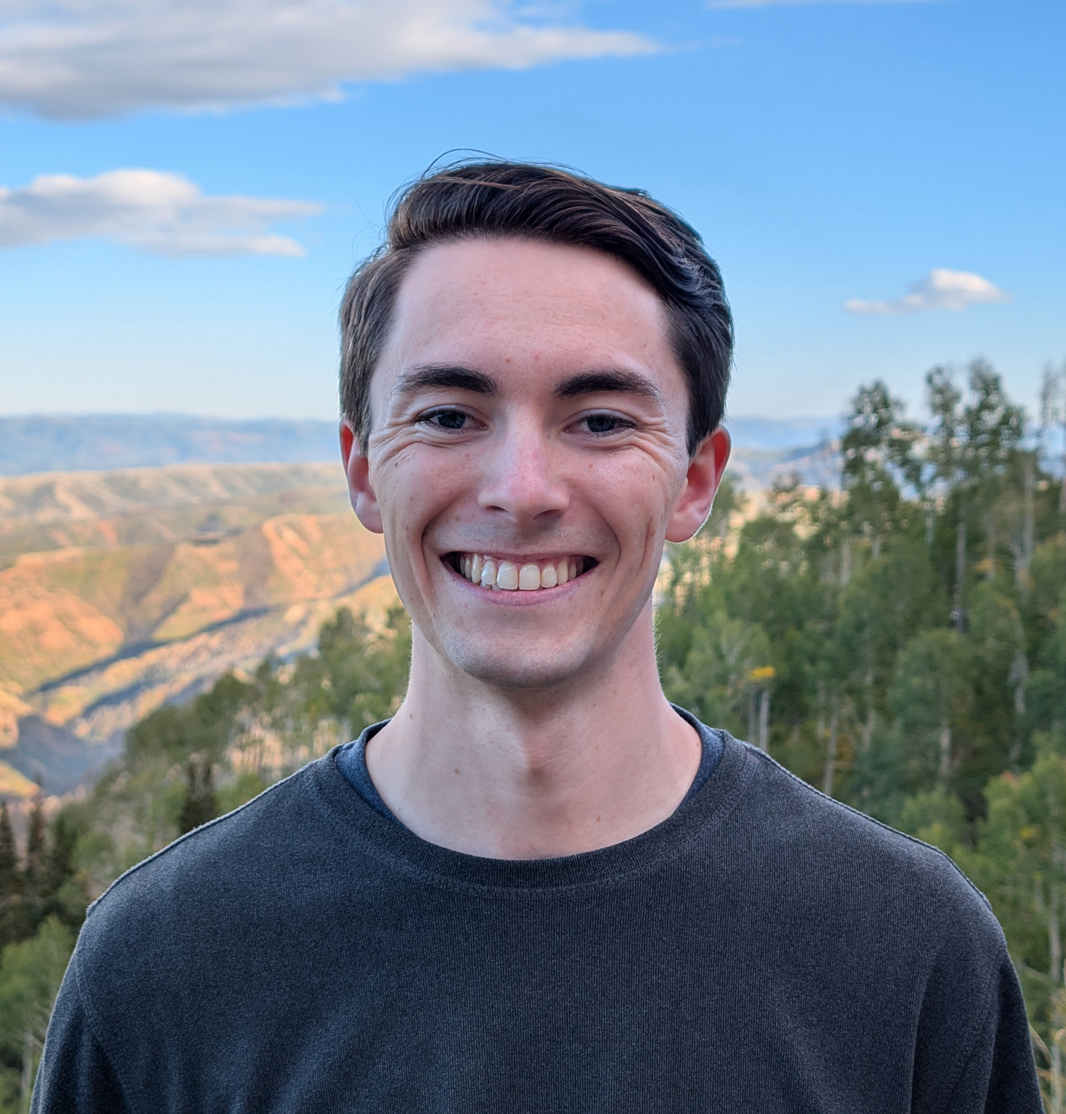
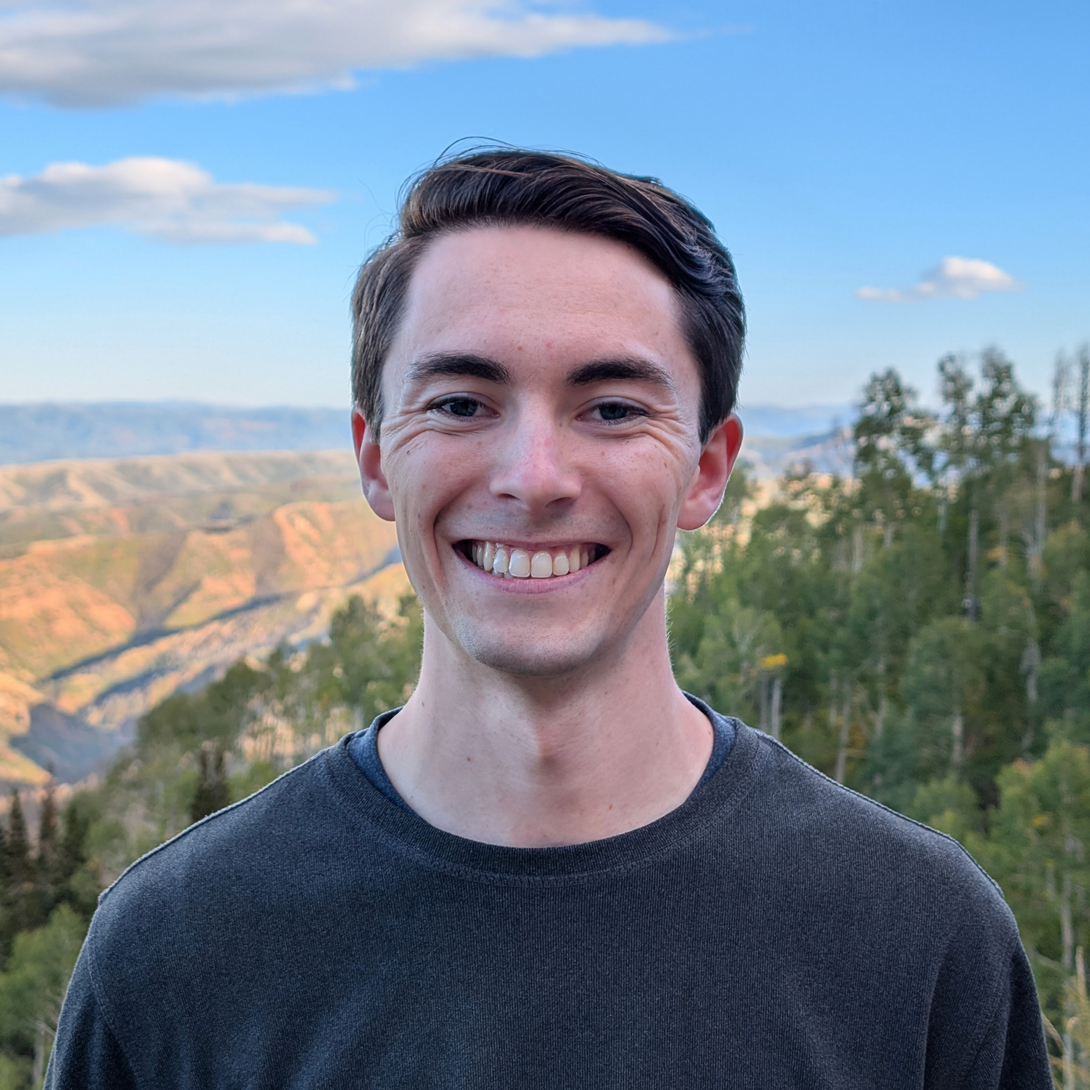
Made portrait square and less rounded corners

diff --git a/src/app/components/HomeComps/Portrait.tsx b/src/app/components/HomeComps/Portrait.tsx
@@ -21,7 +21,7 @@ const Portrait: FC = (): ReactElement => {
         height={240} // Adjust based on image aspect ratio
         style={{
           maxWidth: "15rem",
-          borderRadius: "3rem",
+          borderRadius: "1rem",
           objectFit: "contain",
         }}
       />
